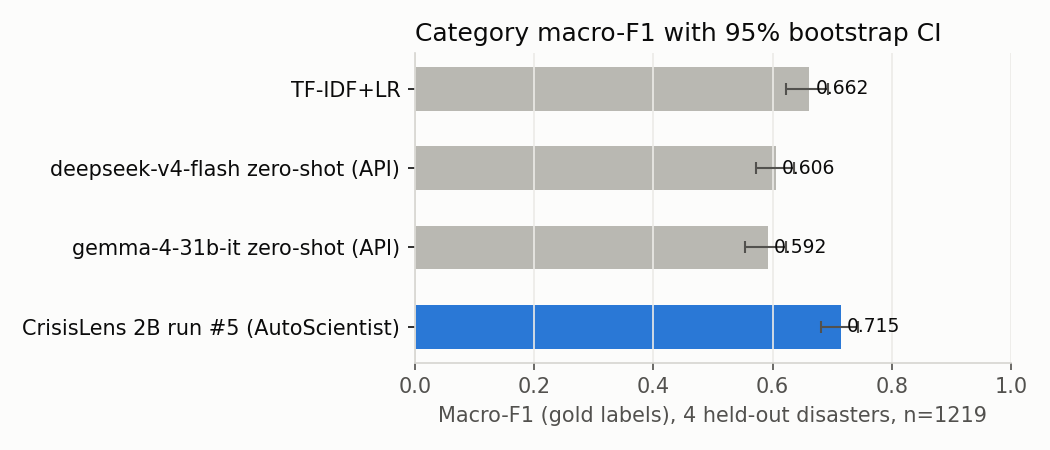
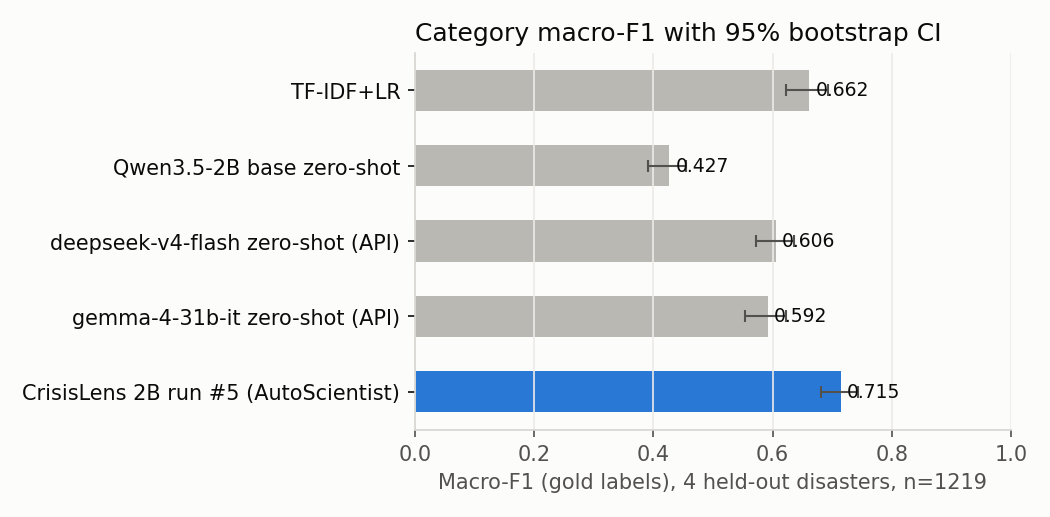
Report: partial runs via common subset, latency units

diff --git a/eval/make_report.py b/eval/make_report.py
@@ -23,6 +23,8 @@ def load(name):
     if name == "tfidf":
         j = json.load(open(R / "baseline_tfidf.json"))["test_eval"]; return j
     f = R / f"{name}.json"
+    if not f.exists():  # partial runs (e.g. base zero-shot killed at 1,035/1,219) are only scored on the common subset
+        f = R / f"{name}__common.json"
     return json.load(open(f)) if f.exists() else None
 
 def main(pairs):
@@ -35,14 +37,16 @@ def main(pairs):
                      "ci_hi": j["macro_f1_ci95"][1], "weighted_f1": j["weighted_f1"],
                      "recall_urgent_needs": j["recall_requests_or_urgent_needs"],
                      "recall_injured_dead": j["recall_injured_or_dead_people"],
-                     "json_valid": j.get("json_valid_rate"), "latency_s": j.get("latency_s_mean", (j.get("latency_ms_per_post") or 0) / 1000),
+                     "json_valid": j.get("json_valid_rate"),
+                     "latency_s": j.get("latency_s_mean", (j["latency_ms_per_post"] / 1000) if j.get("latency_ms_per_post") else None),
                      "usd_per_1k": j.get("usd_per_1k_posts"), "n": j["n"]})
     df = pd.DataFrame(rows); df.to_csv(R / "summary.csv", index=False)
     fmt = df.copy()
     for c in ["macro_f1", "weighted_f1", "recall_urgent_needs", "recall_injured_dead", "json_valid"]:
         fmt[c] = fmt[c].map(lambda v: "—" if pd.isna(v) else f"{v:.3f}")
     fmt["macro_f1"] = [f"{m} [{lo:.3f}, {hi:.3f}]" for m, lo, hi in zip(fmt.macro_f1, df.ci_lo, df.ci_hi)]
-    fmt["latency_s"] = df.latency_s.map(lambda v: "—" if pd.isna(v) else f"{v:.3f}")
+    fmt["latency_s"] = df.latency_s.map(lambda v: "—" if pd.isna(v) else (f"{v * 1000:.2f} ms" if v < 0.01 else f"{v:.2f} s"))
+    fmt = fmt.rename(columns={"latency_s": "latency/post"})
     fmt["usd_per_1k"] = df.usd_per_1k.map(lambda v: "—" if pd.isna(v) else f"${v:.3f}")
     md = fmt.drop(columns=["key", "ci_lo", "ci_hi"]).to_markdown(index=False)
     (R / "summary.md").write_text(md, encoding="utf-8"); print(md); print("skipped:", skipped)

diff --git a/eval/results/summary.md b/eval/results/summary.md
@@ -1,6 +1,7 @@
-| system                               | macro_f1             |   weighted_f1 |   recall_urgent_needs |   recall_injured_dead | json_valid   |   latency_s | usd_per_1k   |    n |
-|:-------------------------------------|:---------------------|--------------:|----------------------:|----------------------:|:-------------|------------:|:-------------|-----:|
-| TF-IDF+LR                            | 0.662 [0.623, 0.693] |         0.72  |                  0.54 |                 0.787 | —            |       0     | —            | 1219 |
-| deepseek-v4-flash zero-shot (API)    | 0.606 [0.573, 0.635] |         0.667 |                  0.32 |                 0.734 | 0.998        |       2.152 | $0.065       | 1219 |
-| gemma-4-31b-it zero-shot (API)       | 0.592 [0.555, 0.622] |         0.67  |                  0.26 |                 0.681 | 1.000        |       1.005 | $0.070       | 1219 |
-| CrisisLens 2B run #5 (AutoScientist) | 0.715 [0.682, 0.743] |         0.759 |                  0.76 |                 0.904 | 0.999        |       5.006 | $0.000       | 1219 |
+| system                               | macro_f1             |   weighted_f1 |   recall_urgent_needs |   recall_injured_dead | json_valid   | latency/post   | usd_per_1k   |    n |
+|:-------------------------------------|:---------------------|--------------:|----------------------:|----------------------:|:-------------|:---------------|:-------------|-----:|
+| TF-IDF+LR                            | 0.662 [0.623, 0.693] |         0.72  |                 0.54  |                 0.787 | —            | 0.35 ms        | —            | 1219 |
+| Qwen3.5-2B base zero-shot            | 0.427 [0.391, 0.456] |         0.328 |                 0.619 |                 0.895 | 0.998        | 11.28 s        | $0.000       | 1033 |
+| deepseek-v4-flash zero-shot (API)    | 0.606 [0.573, 0.635] |         0.667 |                 0.32  |                 0.734 | 0.998        | 2.15 s         | $0.065       | 1219 |
+| gemma-4-31b-it zero-shot (API)       | 0.592 [0.555, 0.622] |         0.67  |                 0.26  |                 0.681 | 1.000        | 1.00 s         | $0.070       | 1219 |
+| CrisisLens 2B run #5 (AutoScientist) | 0.715 [0.682, 0.743] |         0.759 |                 0.76  |                 0.904 | 0.999        | 5.01 s         | $0.000       | 1219 |
